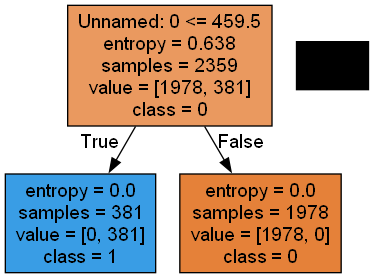
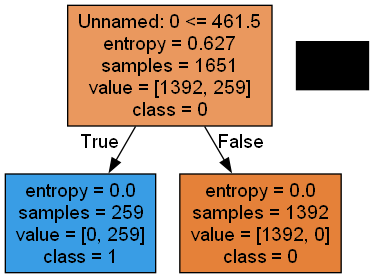
Added SVM and Overfitted Decision Tree Classifier Reports

diff --git a/ad-detection.py b/ad-detection.py
@@ -1,17 +1,22 @@
 import numpy as np
 import pandas as pd
 from sklearn import tree
-import pydotplus 
+import pydotplus
 from IPython.display import Image
+from sklearn.model_selection import train_test_split
+from sklearn.metrics import accuracy_score, classification_report
 from sklearn.svm import LinearSVC
 
-data = pd.read_csv("ad.csv",low_memory=False)
+# Dataset
+data = pd.read_csv("ad.csv", low_memory=False)
 
+# Renaming columns
 data.rename(columns={'0': 'height'}, inplace=True)
 data.rename(columns={'1': 'width'}, inplace=True)
 data.rename(columns={'2': 'aspect_ratio'}, inplace=True)
 data.rename(columns={'1558': 'ad?'}, inplace=True)
 
+# Removing null values
 def toNum(cell):
     if isinstance(cell, (int, float)):
         return cell
@@ -23,32 +28,58 @@ def toNum(cell):
 def seriestoNum(series):
     return series.apply(toNum)
 
-train_data=data.iloc[0:,0:-1].apply(seriestoNum)
-train_data=train_data.dropna()
+train_data = data.iloc[:, 0:-1].apply(seriestoNum)
+train_data = train_data.dropna()
 
+# Converting labels to binary values
 def toLabel(str):
-    if str=="ad.":
-        return 1
-    else:
-        return 0
-    
-train_labels=data.iloc[train_data.index,-1].apply(toLabel)
-print(train_labels) # ad or not an ad
+    return 1 if str == "ad." else 0
 
+train_labels = data.iloc[train_data.index, -1].apply(toLabel)
+
+print(train_labels)
 print(train_data.tail(20))
-print(pd.crosstab([data['width'],data['aspect_ratio']],train_labels))
+print(pd.crosstab([data['width'], data['aspect_ratio']], train_labels))
 
-# Y = train_labels
-# X = data.drop(['height','width','aspect_ratio'], axis=1)
-
-X = train_data.drop(['height','width','aspect_ratio'], axis=1)
+# Preparing data and labels
+X = train_data.drop(['height', 'width', 'aspect_ratio'], axis=1)
 Y = train_labels
 
-clf = tree.DecisionTreeClassifier(criterion='entropy',max_depth=3)
-clf = clf.fit(X, Y)
+# Splitting data into training and testing Sets
+X_train, X_test, Y_train, Y_test = train_test_split(X, Y, test_size=0.3, random_state=42)
 
-dot_data = tree.export_graphviz(clf, feature_names=X.columns, class_names=['0','1'], filled=True, 
-                                out_file=None) 
-graph = pydotplus.graph_from_dot_data(dot_data) 
+# Train Decision Tree Classifier
+clf_tree = tree.DecisionTreeClassifier(criterion='entropy', max_depth=3)
+clf_tree.fit(X_train, Y_train)
+
+# Train SVM Classifier
+clf_svm = LinearSVC(max_iter=10000)
+clf_svm.fit(X_train, Y_train)
+
+# Predictions
+Y_pred_tree = clf_tree.predict(X_test)
+Y_pred_svm = clf_svm.predict(X_test)
+
+# Evaluation
+print("Decision Tree Classifier Report")
+print(classification_report(Y_test, Y_pred_tree))
+print("Accuracy:", accuracy_score(Y_test, Y_pred_tree))
+
+print("SVM Classifier Report")
+print(classification_report(Y_test, Y_pred_svm))
+print("Accuracy:", accuracy_score(Y_test, Y_pred_svm))
+
+# Visualize Decision Tree
+dot_data = tree.export_graphviz(clf_tree, feature_names=X.columns, class_names=['0', '1'], filled=True, out_file=None) 
+graph = pydotplus.graph_from_dot_data(dot_data)
 graph.write_png("decision_tree.png")
 Image(graph.create_png())
+
+# Demonstrate Overfitting
+clf_tree_overfit = tree.DecisionTreeClassifier(criterion='entropy', max_depth=None)
+clf_tree_overfit.fit(X_train, Y_train)
+Y_pred_tree_overfit = clf_tree_overfit.predict(X_test)
+
+print("Overfitted Decision Tree Classifier Report")
+print(classification_report(Y_test, Y_pred_tree_overfit))
+print("Accuracy:", accuracy_score(Y_test, Y_pred_tree_overfit))
